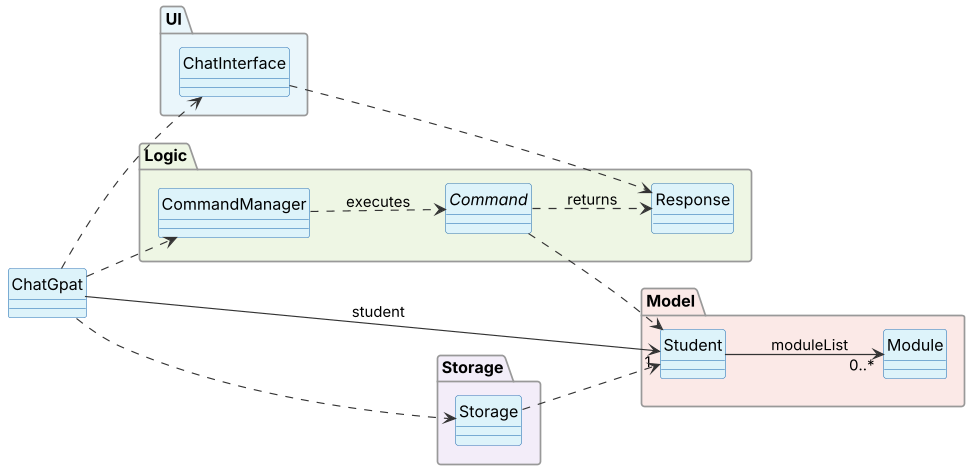
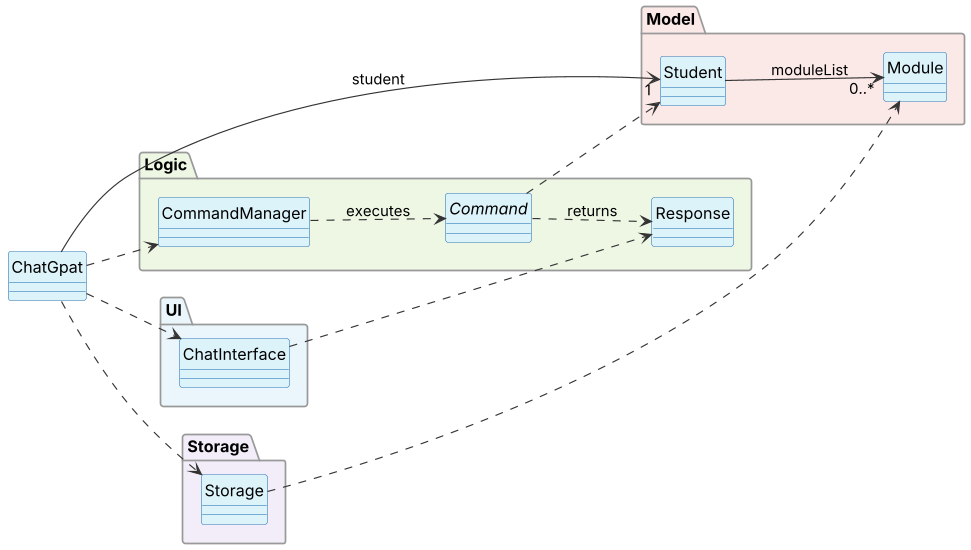
Add Storage and update Architecture diagrams in DG

diff --git a/docs/DeveloperGuide.md b/docs/DeveloperGuide.md
@@ -35,7 +35,9 @@ The *Sequence Diagram* below shows one full iteration of the main loop, for the 
 
 <img src="images/ArchitectureSequence.png" alt="Sequence diagram of one iteration of the main loop" width="760" />
 
-When the user types a command, `ChatGpat` passes it to `CommandManager#processQuery`. `CommandManager` asks each `Parser` in turn, and the first one that returns a `Command` wins. The diagram shows only the parser of `AddCommand`, because the parsers tried before it return an empty `Optional` for this input. The command is executed with the `Student` object, and the returned `Response` is printed by `ChatInterface`. The loop repeats until the user exits.
+When the app starts, `ChatGpat` asks `Storage` to load the saved modules, adds them to the `Student` object (not shown in the diagram), and passes any warnings about unreadable records to `ChatInterface`. After that, the main loop in the diagram runs.
+
+When the user types a command, `ChatGpat` passes it to `CommandManager#processQuery`. `CommandManager` asks each `Parser` in turn, and the first one that returns a `Command` wins. The diagram shows only the parser of `AddCommand`, because the parsers tried before it return an empty `Optional` for this input. The command is executed with the `Student` object. If the returned `Response` says that data was changed, as it does for `add`, `ChatGpat` asks `Storage` to save the modules. Then `ChatInterface` prints the `Response` together with any save error. The loop repeats until the user exits.
 
 If something goes wrong, the code throws an exception that is a subclass of `ChatGpatException`. `ChatGpat#run` catches it and prints its message as a normal response. Any other unexpected exception is caught by a second `catch` block, which prints a generic error and logs the details. Either way, the loop continues.
 
@@ -86,7 +88,21 @@ The diagram omits the other query and update methods of `Student` and some descr
 
 ### Storage component
 
-The Storage component (`Storage`) reads and writes the module records as local text. It returns diagnostics, such as a line it could not read, to its caller instead of printing them, so that `ChatInterface` remains the only class that prints. The details of the file format and the loading and saving flow are in the *Local storage* section under *Implementation*.
+<img src="images/StorageClassDiagram.png" alt="Class diagram of the Storage component" width="760" />
+
+The Storage component (`Storage`) keeps the module records between runs of the app. It
+
+* saves the modules as one line of text per module in `data/modules.txt`, and reads them back when the app starts. Its constructor also accepts a `Path`, so tests can use a temporary file.
+* returns what it loaded as a `LoadResult`, a record that holds the valid `Module` objects and a list of warnings for the lines it could not read, such as an unknown grade or a duplicate module code. One bad line never stops the other lines from loading, and a missing file is treated as an empty record.
+* returns `Optional.empty()` from `save` when it succeeds and an error message when the file cannot be written. The modules stay in memory after a failed save, so the next successful save writes the whole list again.
+* depends on the Model classes `Module`, `Semester` and `Grade` only to create and read them. It does not depend on the UI, the Logic component or `Student`, and it never prints: warnings and errors are returned to `ChatGpat`, which passes them to `ChatInterface`.
+
+Only `ChatGpat` uses `Storage`. The sequence diagram below shows when: once at startup, and after a command that changes data. Commands that only show information, and commands that fail, do not request a save.
+
+<img src="images/StorageSequence.png" alt="Sequence diagram of loading at startup and saving after a command" width="760" />
+
+The file format, the escaping rules and how to extend them are described in the *Local storage* section under *Implementation*.
+
 
 ### Common classes
 
